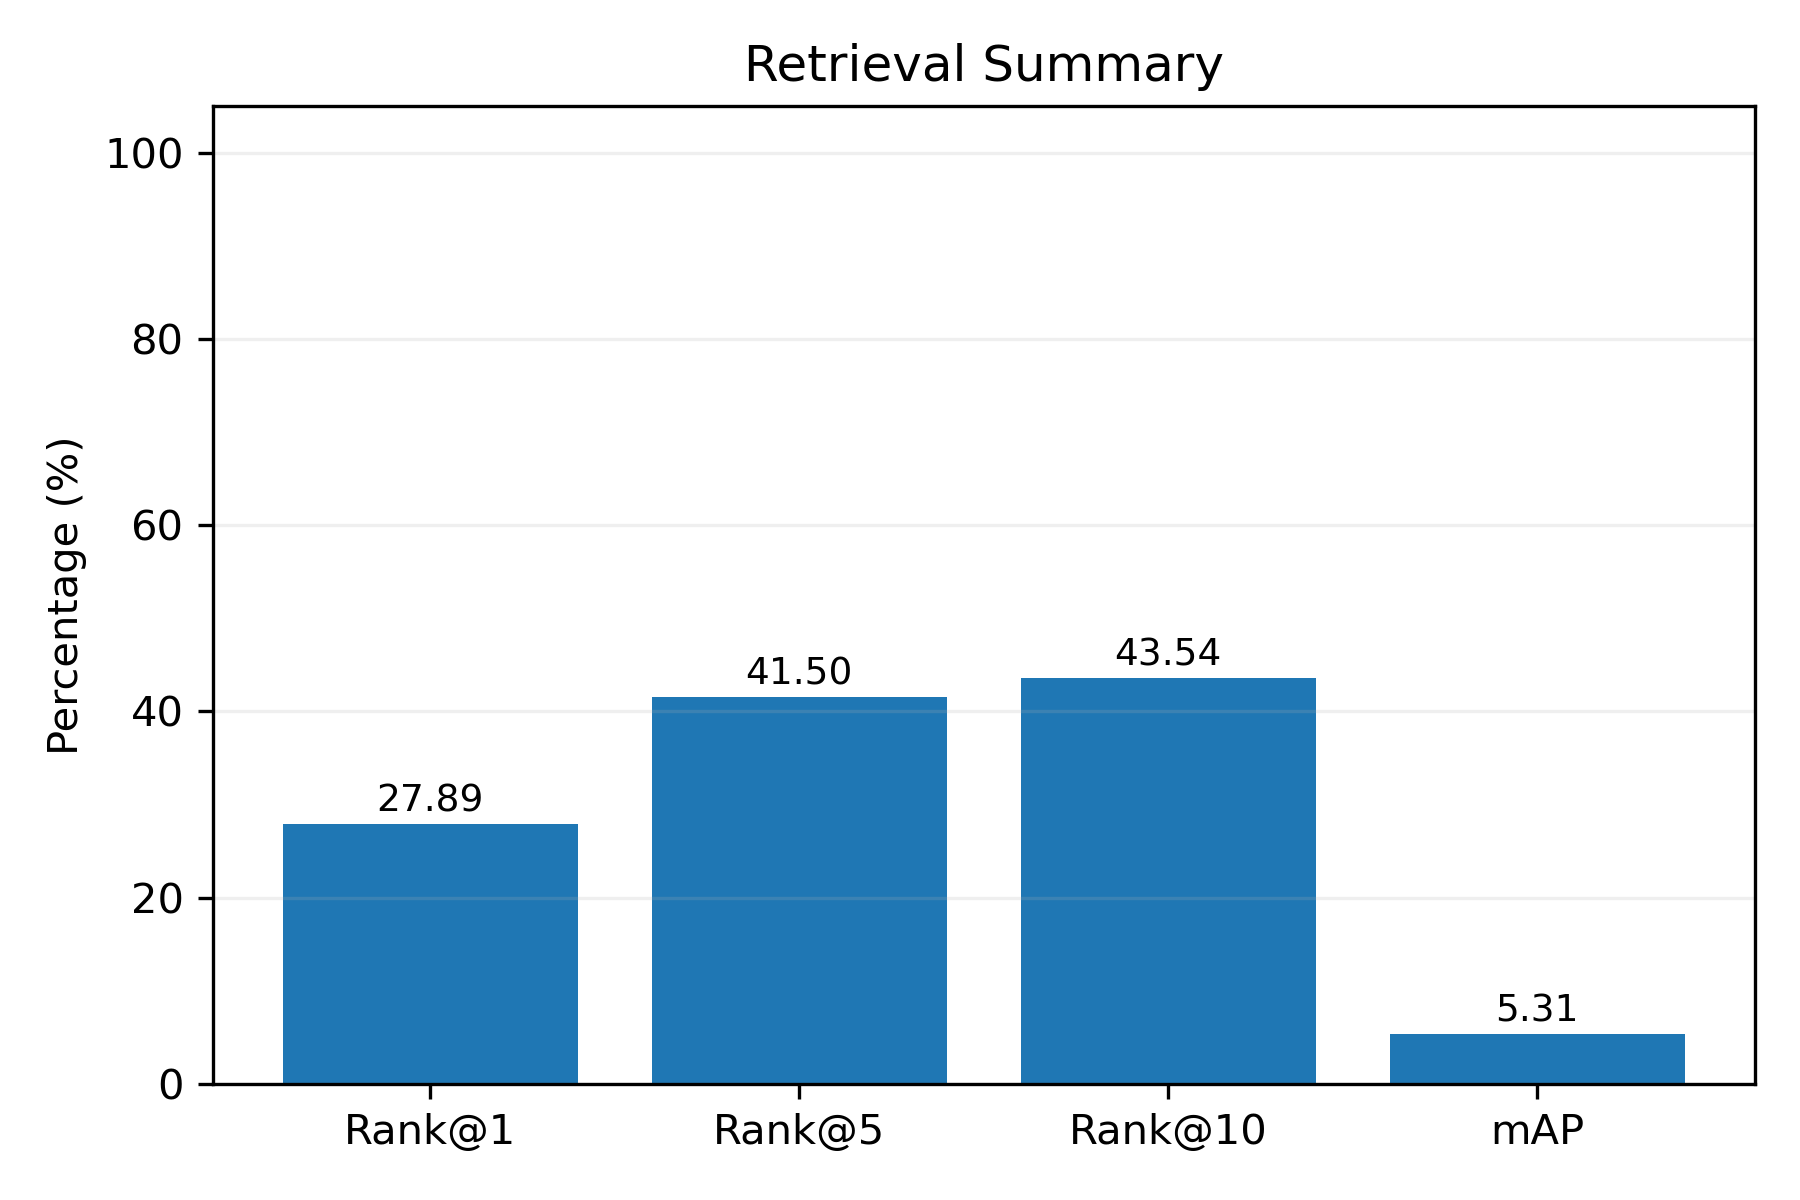
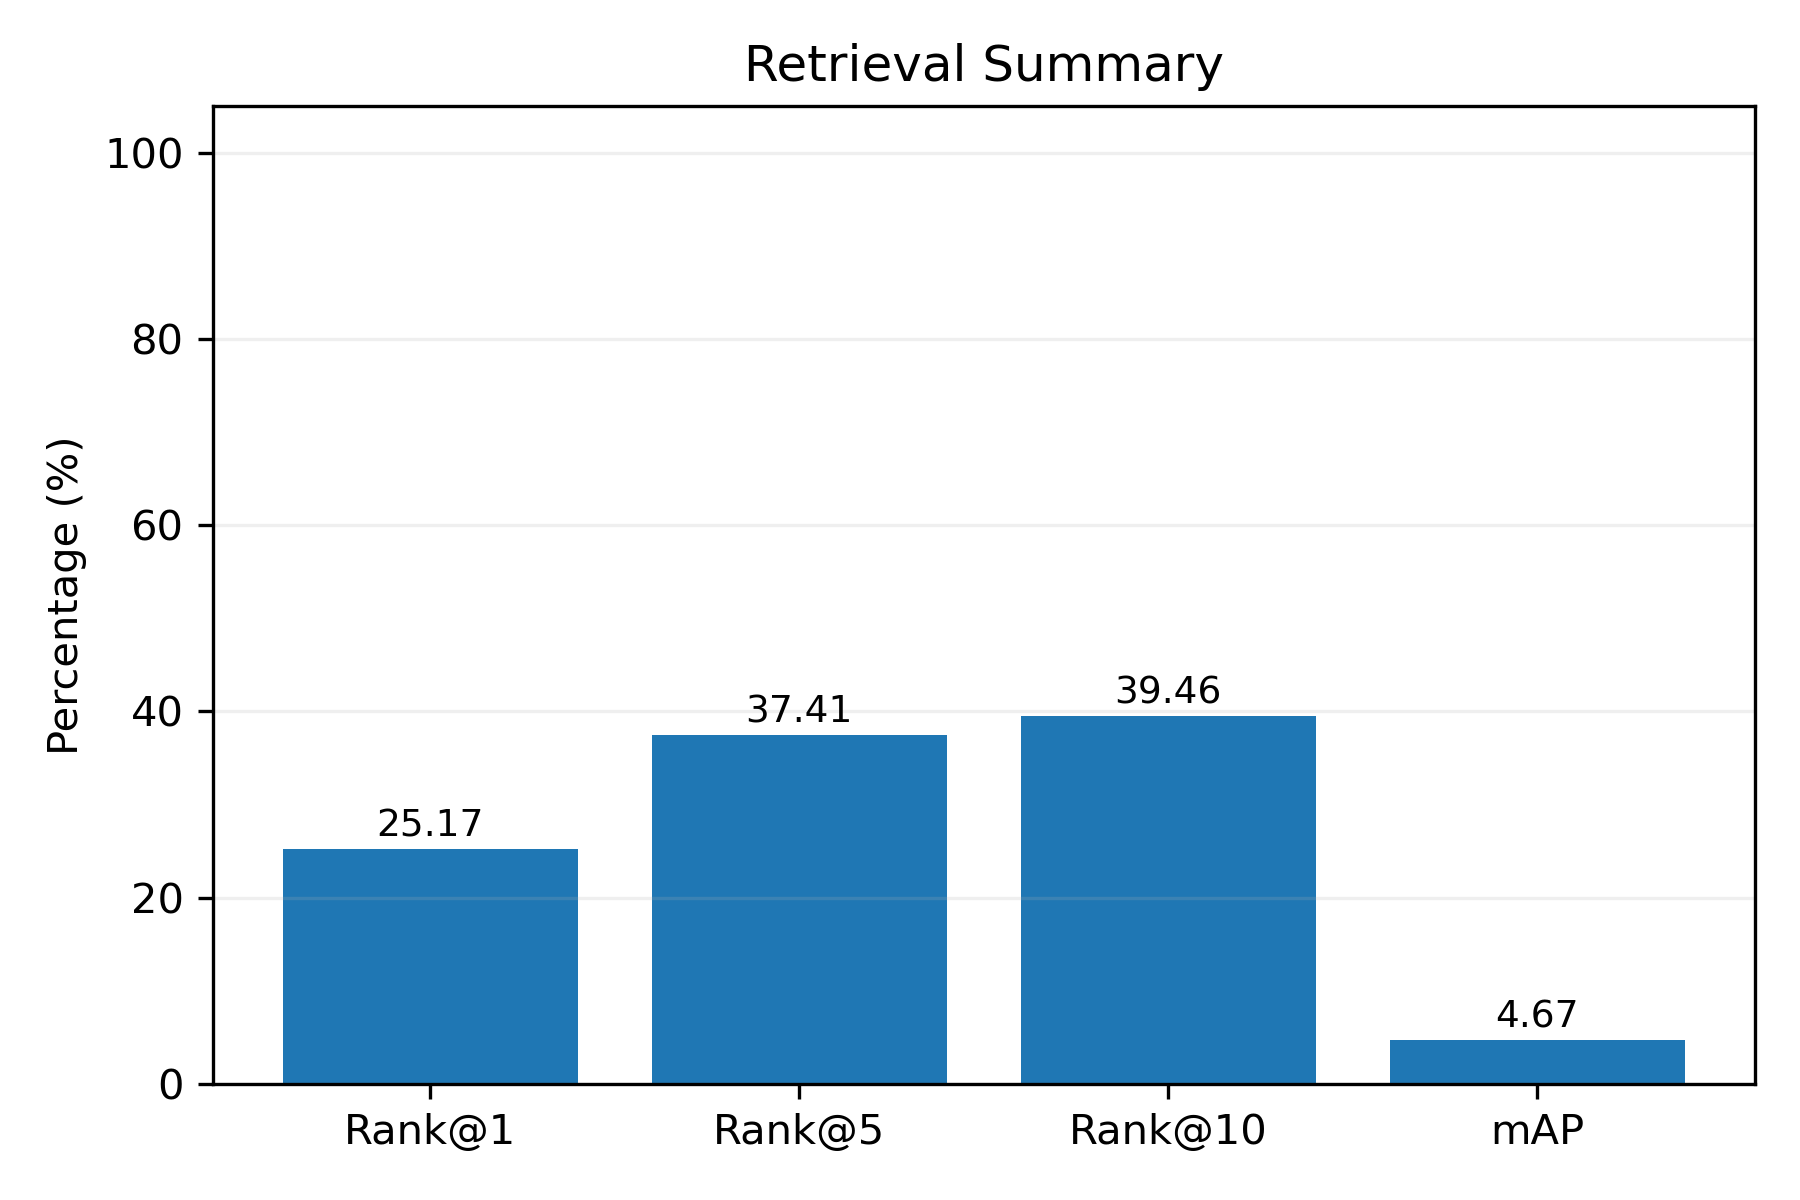
t-SNE/UMAP of y_vec, y_prob, f3 and embedding concat vec

diff --git a/test.py b/test.py
@@ -27,6 +27,7 @@ torch.cuda.empty_cache()
 parser = argparse.ArgumentParser()
 parser.add_argument('--batch_size',type=int,default=8)
 parser.add_argument('--num_classes',type=int,default=1731)
+#parser.add_argument('--num_classes',type=int,default=2)
 parser.add_argument('--epoch',type=int,default=80)
 parser.add_argument('--seed',type=int,default=123)
 parser.add_argument('--cuda',type=bool,default=True)
@@ -96,7 +97,11 @@ def extract_features(model,data_loader,time_model):
         features_lens = torch.tensor(features_lens).long().to(device)
         user_labels = torch.from_numpy(user_labels).long()
         s = time.time()
-        y_vector = model(x,features_lens)[0]
+        y_vec = model(x,features_lens)[0] # time-functions feature vector
+        #y_prob = model(x,features_lens)[1]
+        f3 = model(x,features_lens)[2] # frequency domain feature vector
+        #y_vector = [*y_vec*f3] # concatenate feature vectors
+        y_vector = torch.cat((y_vec,f3),1) # concatenate feature vectors
         # y_vector = model(x)[0]
         e = time.time()
         time_model += (e - s)
@@ -120,6 +125,44 @@ def transform_user2feat(features,labels):
         user2feat[i] = features[pos]
     return user2feat
 
+def generate_lbd_labels(dataset_root: str):
+    """
+    Scans dataset_root for subfolders like:
+        HC-33#1, HC-34#1, pre-LBD-1#1, ...
+    and assigns:
+        0 → healthy controls (HC-*)
+        1 → pre-LBD patients (pre-LBD-*)
+    
+    Returns:
+        label_dict: { 'HC-33#1': 0, 'pre-LBD-1#1': 1, ... }
+        label_names: list of folder names (writers)
+        labels: list of integer labels [0, 1, ...] aligned with label_names
+    """
+    root = Path(dataset_root)
+    assert root.exists(), f"Path not found: {root}"
+    
+    label_dict = {}
+    label_names = []
+    labels = []
+    
+    for folder in sorted(root.iterdir()):
+        if not folder.is_dir():
+            continue
+        name = folder.name
+        if name.lower().startswith("hc"):
+            label = 0  # healthy control
+        elif name.lower().startswith("pre-lbd"):
+            label = 1  # patient
+        else:
+            print(f"[WARN] Unrecognized folder name: {name}")
+            continue
+        label_dict[name] = label
+        label_names.append(name)
+        labels.append(label)
+    
+    print(f"Found {len(label_dict)} subjects: {sum(v==0 for v in labels)} HC, {sum(v==1 for v in labels)} pre-LBD")
+    return label_dict, label_names, labels
+
 @torch.no_grad()
 def test_impl(model):
     model = model.eval()
@@ -129,6 +172,7 @@ def test_impl(model):
     time_elapsed_start = time.time()
     all_features,all_labels,time_model = extract_features(model,gallery_loader,0)
     user2feat = transform_user2feat(all_features,all_labels)
+#    user2feat = generate_lbd_labels(all_features,all_labels)
     repeat_times = 1
     logger.info(f'repeat times: {repeat_times}')
     gallery_labels,query_labels = [],[]
@@ -217,43 +261,6 @@ def test():
     load_ckpt(model,opt.weights,device,logger,mode='test')    
     test_impl(model)
     
-def generate_lbd_labels(dataset_root: str):
-    """
-    Scans dataset_root for subfolders like:
-        HC-33#1, HC-34#1, pre-LBD-1#1, ...
-    and assigns:
-        0 → healthy controls (HC-*)
-        1 → pre-LBD patients (pre-LBD-*)
-    
-    Returns:
-        label_dict: { 'HC-33#1': 0, 'pre-LBD-1#1': 1, ... }
-        label_names: list of folder names (writers)
-        labels: list of integer labels [0, 1, ...] aligned with label_names
-    """
-    root = Path(dataset_root)
-    assert root.exists(), f"Path not found: {root}"
-    
-    label_dict = {}
-    label_names = []
-    labels = []
-    
-    for folder in sorted(root.iterdir()):
-        if not folder.is_dir():
-            continue
-        name = folder.name
-        if name.lower().startswith("hc"):
-            label = 0  # healthy control
-        elif name.lower().startswith("pre-lbd"):
-            label = 1  # patient
-        else:
-            print(f"[WARN] Unrecognized folder name: {name}")
-            continue
-        label_dict[name] = label
-        label_names.append(name)
-        labels.append(label)
-    
-    print(f"Found {len(label_dict)} subjects: {sum(v==0 for v in labels)} HC, {sum(v==1 for v in labels)} pre-LBD")
-    return label_dict, label_names, labels
 
 def main():
     test()
